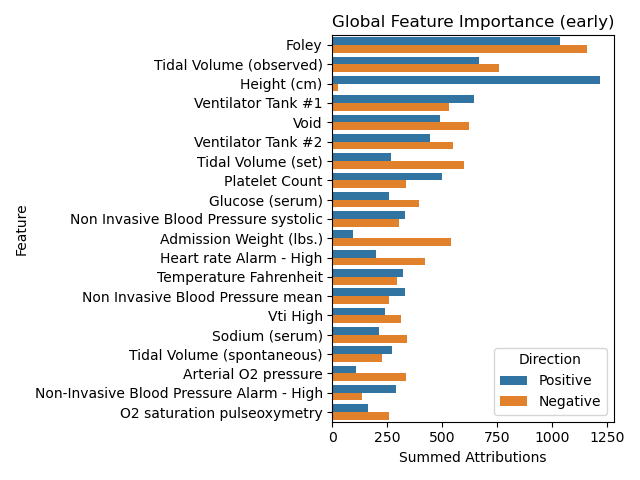
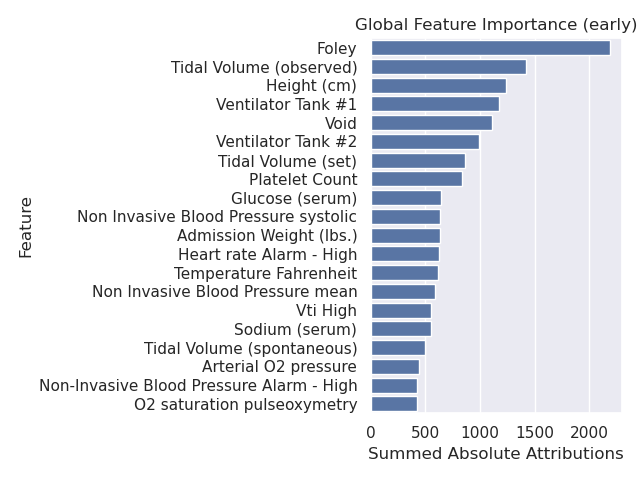
Use summed absolute attributions in fi barplots

Changed region(s): [[0.0625, 0.0312, 1.0, 0.9688], [0.0312, 0.4062, 0.0625, 0.5625], [0.9375, 0.7188, 0.9688, 0.75]]

diff --git a/src/tabsep/reporting/globalImportance.py b/src/tabsep/reporting/globalImportance.py
@@ -56,15 +56,16 @@ def summative_importances(att):
         }
     )
 
-    importances["total_importance"] = importances["Positive"] + importances["Negative"]
+    importances["Summed Absolute Attributions"] = (
+        importances["Positive"] + importances["Negative"]
+    )
 
-    topn = importances.nlargest(20, columns="total_importance")
-    topn = topn.drop(columns="total_importance")
+    topn = importances.nlargest(20, columns="Summed Absolute Attributions")
 
-    topn = pd.melt(topn, id_vars="Feature", var_name="Direction")
-    topn = topn.rename(columns={"value": "Summed Attributions"})
+    sns.set_theme()
+
     ax = sns.barplot(
-        x="Summed Attributions", y="Feature", data=topn, hue="Direction", orient="h"
+        x="Summed Absolute Attributions", y="Feature", data=topn, orient="h", color="b"
     )
     ax.set_title(f"Global Feature Importance ({title})")
     plt.tight_layout()
